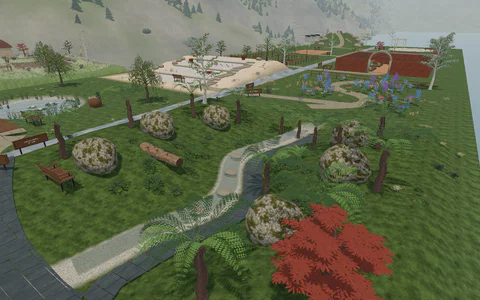
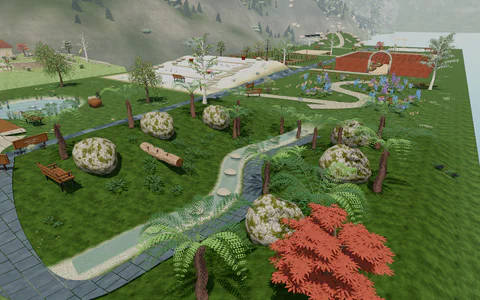
Smooth Fern Gully and fit the Moon Garden path to its oval court

diff --git a/art_source/garden_paving.py b/art_source/garden_paving.py
@@ -79,7 +79,7 @@ def end_width(index):
 
 def terminal(index):
     """An exact squared threshold at the court, first tread or deck edge."""
-    axis,end,direction={0:(0,7.055,1),2:(1,6.35,1),5:(1,7.,1),6:(1,5.5,1),7:(0,-3.385,-1),9:(1,6.,1)}.get(index,(None,0,0))
+    axis,end,direction={0:(0,7.055,1),2:(1,6.35,1),5:(1,7.,1),6:(1,5.5,1),7:(0,-3.385,-1)}.get(index,(None,0,0))
     if axis is None:return None
     center=garden_routes.point(index,1)
     w=end_width(index)*.5
@@ -88,14 +88,33 @@ def terminal(index):
 
 def footprints(index):
     pieces=[];native=native_path(index)
+    if index==1:
+        # One continuous ribbon has a shared cross-section through the bend.
+        # Two separately capped strips left a triangular spur and a pinched
+        # inner edge, even after their overlapping faces were removed.
+        approach=garden_routes.ROUTES['approaches'][index]
+        center,width=native;end=approach[-1][1]
+        count=math.ceil((end+9)/.12)
+        points=approach[:-1]+[(center(end-j*(end+9)/count),end-j*(end+9)/count) for j in range(count+1)]
+        ratio=(len(points)-1)/(len(approach)-1)
+        return ribbon(points,lambda t:1.8+(width-1.8)*smooth(.60,.95,min(1,t*ratio)))
     if native:
         center,width=native
-        end=8.36 if index==1 else 9.
+        end=9.
         count=math.ceil((end+9)/.12)
         points=[(center(-9+j*(end+9)/count),-9+j*(end+9)/count) for j in range(count+1)]
         pieces.extend(ribbon(points,lambda t:width))
     width=lambda t:1.8+(end_width(index)-1.8)*smooth(.65,1,t)
-    pieces.extend(ribbon(garden_routes.ROUTES['approaches'][index],width))
+    points=garden_routes.ROUTES['approaches'][index]
+    if index==9:
+        # Continue the ribbon slightly into the court, then cut every flag to
+        # the oval boundary. A square terminal here produced an L-shaped strip.
+        a,end=points[-2:];length=math.dist(a,end)
+        points=points+[tuple(end[k]+(end[k]-a[k])*.65/length for k in range(2))]
+    pieces.extend(ribbon(points,width))
+    if index==9:
+        oval=[(-1+6.5*.98*math.cos(j*math.tau/256),6.3*.98*math.sin(j*math.tau/256)) for j in range(256)]
+        pieces=[part for poly in pieces for part in difference(poly,oval)]
     slab=terminal(index)
     if slab:
         # Remove the last partial flag row. One threshold, cut exactly at the
@@ -166,8 +185,11 @@ def build(b,G,root,index):
         y-=.020*(1-smooth(0,.15,t))
         end=garden_routes.point(index,1)
         distance=abs((x-end[0]) if index in [0,7] else (z-end[1])) if index in [0,2,4,5,6,7,9] else math.dist((x,z),end)
+        if index==9:distance=max(0,(math.hypot((x+1)/6.5,z/6.3)-.98)*6.3)
         if index in [0,2,5,6,7,9]:
-            target=1.51 if index==0 else 1.40+.2*(1-(end[0]/3.6)**2) if index==7 else b.height(index,x,z)+(.155 if index==2 else .035)
+            # The oval court's terrain continues underneath the flags. Leave
+            # 15mm of reveal there; coincident faces flicker and expose wedges.
+            target=1.51 if index==0 else 1.40+.2*(1-(end[0]/3.6)**2) if index==7 else b.height(index,x,z)+(.155 if index==2 else .05 if index==9 else .035)
             y+=(target-y)*(1-smooth(.22,1.1,distance))
         elif index==4:
             # A modest level landing meets the orchard turf without a raised

diff --git a/tests/check_path_paving.py b/tests/check_path_paving.py
@@ -65,15 +65,43 @@ def audit(index,baseline):
         for cell in cells:buckets.setdefault(cell,[]).append(j)
     assert not overlaps,(KINDS[index],'stacked path flags',len(overlaps),overlaps[:3])
     if not baseline:
-        if index in [2,5,6,9]:
-            edge={2:6.35,5:7.,6:5.5,9:6.}[index]
+        if index in [2,5,6]:
+            edge={2:6.35,5:7.,6:5.5}[index]
             assert min(p[2] for p in points)>=edge-1e-5,(KINDS[index],'paving projects into destination')
         if index==0:assert min(p[0] for p in points)>=7.055-1e-5,('paving projects into boardwalk',points)
         if index==7:assert max(p[0] for p in points)<=-3.385+1e-5,('paving projects into bridge',points)
-        if index in [5,6,9]:
-            edge={5:7.,6:5.5,9:6.}[index]
+        if index in [5,6]:
+            edge={5:7.,6:5.5}[index]
             ends=[p for p in points if abs(p[2]-edge)<1e-5]
             assert len(ends)>=2 and all(abs(p[1]-1.235)<1e-5 for p in ends),(KINDS[index],'raised courtyard threshold',ends)
+        if index==9:
+            # The Moon court is oval, so a constant-Z bound cannot detect
+            # the long sideways strip or fit both sides of its entrance.
+            radius=lambda p:math.hypot((p[0]+1)/6.5,p[2]/6.3)
+            assert min(radius(p) for p in points)>.9798,('paving projects into oval court',min(radius(p) for p in points))
+            ends=[p for p in points if abs(radius(p)-.98)<.0002]
+            assert len(ends)>8 and all(abs(p[1]-1.250)<1e-5 for p in ends),('incorrect oval threshold reveal',ends)
+        if index in [1,9]:
+            route=json.loads((ROOT/'assets/areas/routes.json').read_text())['approaches'][index]
+            radii=[math.dist(a,b)*math.dist(b,c)*math.dist(c,a)/(2*abs(cross(a,b,c))) for a,b,c in zip(route,route[1:],route[2:]) if abs(cross(a,b,c))>1e-8]
+            assert min(radii)>1.1,(KINDS[index],'turn too tight for the paving width',min(radii))
+            # A bend must retain its walkable width in the final export.
+            # Allow only the 2cm mortar joints, not missing wedges or a spur.
+            for j in range(int(len(route)*.70),len(route)-1):
+                a,b,c=route[j-1:j+2];length=math.dist(a,c)
+                normal=(-(c[1]-a[1])/length,(c[0]-a[0])/length)
+                for side in [-.38,0,.38]:
+                    point=(b[0]+normal[0]*side,b[1]+normal[1]*side)
+                    if index==9 and math.hypot((point[0]+1)/6.5,point[1]/6.3)<.981:continue
+                    candidates=buckets.get((math.floor(point[0]),math.floor(point[1])),[])
+                    covered=False
+                    for dx,dz in [(0,0),(.025,0),(-.025,0),(0,.025),(0,-.025)]:
+                        q=(point[0]+dx,point[1]+dz)
+                        for k in candidates:
+                            signs=[cross(p,r,q) for p,r in zip(triangles[k],triangles[k][1:]+triangles[k][:1])]
+                            if min(signs)>=-1e-7 or max(signs)<=1e-7:covered=True;break
+                        if covered:break
+                    assert covered,(KINDS[index],'missing paving across bend',point)
     print(f'PATH_PAVING: {KINDS[index]} — {len(triangles)} disjoint triangles, fitted destination edge')
 
 if __name__=='__main__':

diff --git a/art_source/garden_routes.py b/art_source/garden_routes.py
@@ -31,12 +31,13 @@ def data():
         6: [[11.15,8.25],[7.0,8.25],[0,8.25],[0,5.5]],
         7: [[-11.15,7.9],[-8.7,7.9],[-8.7,3.0],[-3.385,3.0]],
         8: [[11.15,7.9],[8.0,7.9],[4.0,6.0],[2.4*math.sin(2.7),6.0]],
-        9: [[-11.15,7.9],[-7.0,7.9],[-2.5,7.0],[-2.5,6.0]],
+        # Arrive normal to the oval gravel court, with room for a broad bend.
+        9: [[-11.15,7.9],[-7.2,7.9],[-2.95,7.85],[-2.5,6.3*math.sqrt(.98**2-(1.5/6.5)**2)]],
     }
     routes=[curve(curves[i]) if i in curves else [] for i in range(10)]
     # Straight final courses square up to the destination edge, leaving room
     # for a complete threshold slab rather than a thin, diagonally cut tile.
-    for i in [0,2,6,7,9]:
+    for i in [0,2,6,7]:
         controls=[list(p) for p in curves[i]];end=controls[-1][:]
         axis=0 if i in [0,7] else 1;direction=-1 if i==7 else 1
         controls[-1][axis]+=direction*.60
@@ -48,8 +49,7 @@ def data():
     fern=[]
     for controls in [
         [[-11.15,7.9],[-8.5,7.9],[-6,10.35],[-2,10.35]],
-        [[-2,10.35],[-.5,10.35],[1.65,10.35],[1.65,9.5]],
-        [[1.65,9.5],[1.65,9.0],[creek(8.3)+1.55+(.42*math.cos(8.3*.42)+.249*math.cos(8.3*.83))*.7,9.0],[creek(8.3)+1.55,8.3]],
+        [[-2,10.35],[0,10.35],[creek(8.3)+1.55+(.42*math.cos(8.3*.42)+.249*math.cos(8.3*.83))*1.5,9.8],[creek(8.3)+1.55,8.3]],
     ]:
         fern.extend([cubic(controls,i/120) for i in range(120)])
     fern.append(tuple([creek(8.3)+1.55,8.3]));routes[1]=resample(fern)

diff --git a/docs/development.md b/docs/development.md
@@ -167,3 +167,5 @@ Garden save download/upload checks: `Godot --headless --path . --script tests/sa
 Run Godot with `-- --areas-showcase` to explore a mature example of all ten new areas through the normal atlas and gardening controls. This uses `user://areas-showcase-save.json` and leaves the player's ordinary garden file untouched. Use `-- --areas-test` for automated activities, terrain, movement, migration, save validation and real screenshots. `tests/run.sh` checks Compatibility and Forward+ rendering, while `tests/check_areas.py` verifies all 28 new GLBs. See `art_source/areas/README.md` for MCP regeneration, editable Blender source libraries and generated texture prompts.
 
 `tests/check_path_paving.py` audits the final GLBs for stacked paving triangles, destination overshoot and raised courtyard thresholds; it also runs in the browser build workflow. For a close visual review of every entrance, use `-- --cohesion-review --junction-review`. This isolated review writes fourteen walking-height and overhead photographs to `captures/fitted-path-junctions`; add `--forward-review` when capturing Forward+ into its own subdirectory. Entrance and inner paths share the clipped paving network in `art_source/garden_paving.py`, including invisible metre-grid cuts that keep restored terrain edits and collision aligned.
+
+Use `-- --cohesion-review --two-paths-review` for six focused photographs of the Fern Gully bend and oval Moon Garden entrance, including their original review angles. This also refreshes their two Atlas previews and exercises eighteen actual player crossings through these approaches and their inner joins. The exported paving audit checks bend width, turning radius, the oval boundary and its 15mm stone reveal above the underlying terrain.

diff --git a/CHANGELOG.md b/CHANGELOG.md
@@ -1,3 +1,13 @@
+### [2026-10-06 19:41] Fixed
+
+**Tech:** `garden_routes.py`, `garden_paving.py` — continuous Fern Gully bend and oval Moon Garden threshold
+
+**Dev:** Widen the two tight approach turns. Join Fern Gully's arrival and bank path as one ribbon with a shared cross-section and gradual width change, eliminating its triangular spur and pinched join. Clip Moon Garden's final stones to the gravel court's actual oval boundary and retain a 15mm reveal above the underlying terrain to prevent coincident faces. Rebuild the two GLBs and packed Blender sources, update their shared clearance routes and Atlas arrivals/previews, and add player release 49 without changing terrain grids, collection IDs or saved progress. Extend exported paving checks for bend coverage, turning radius and oval fit; add focused original-angle/overhead review views and curved threshold probes. Both native renderers pass eighteen real player crossings and produce six reviewed photographs each. The complete headless garden regression and player-update checks pass. All ten paving networks, 28 area models with 505,264 triangles and all 33 Blender source libraries pass. A local Web export verifies 397 models and 10,015 texture references, packages 440.4 MiB into 23 pieces and passes deployable-file/security checks.
+
+**Plain:** Fern Gully's slate path follows a smooth bend, and the Moon Garden entrance meets its curved gravel courtyard cleanly.
+
+**Why:** These entrances now look deliberately built and remain reliable to walk through.
+
 ### [2026-10-06 17:12] Fixed
 
 **Tech:** `garden_paving.py`, `garden_routes.py`, `GardenAreas.prepare_meshes`, `GardenSculpt.chunks` — fitted paving networks and level destination thresholds
